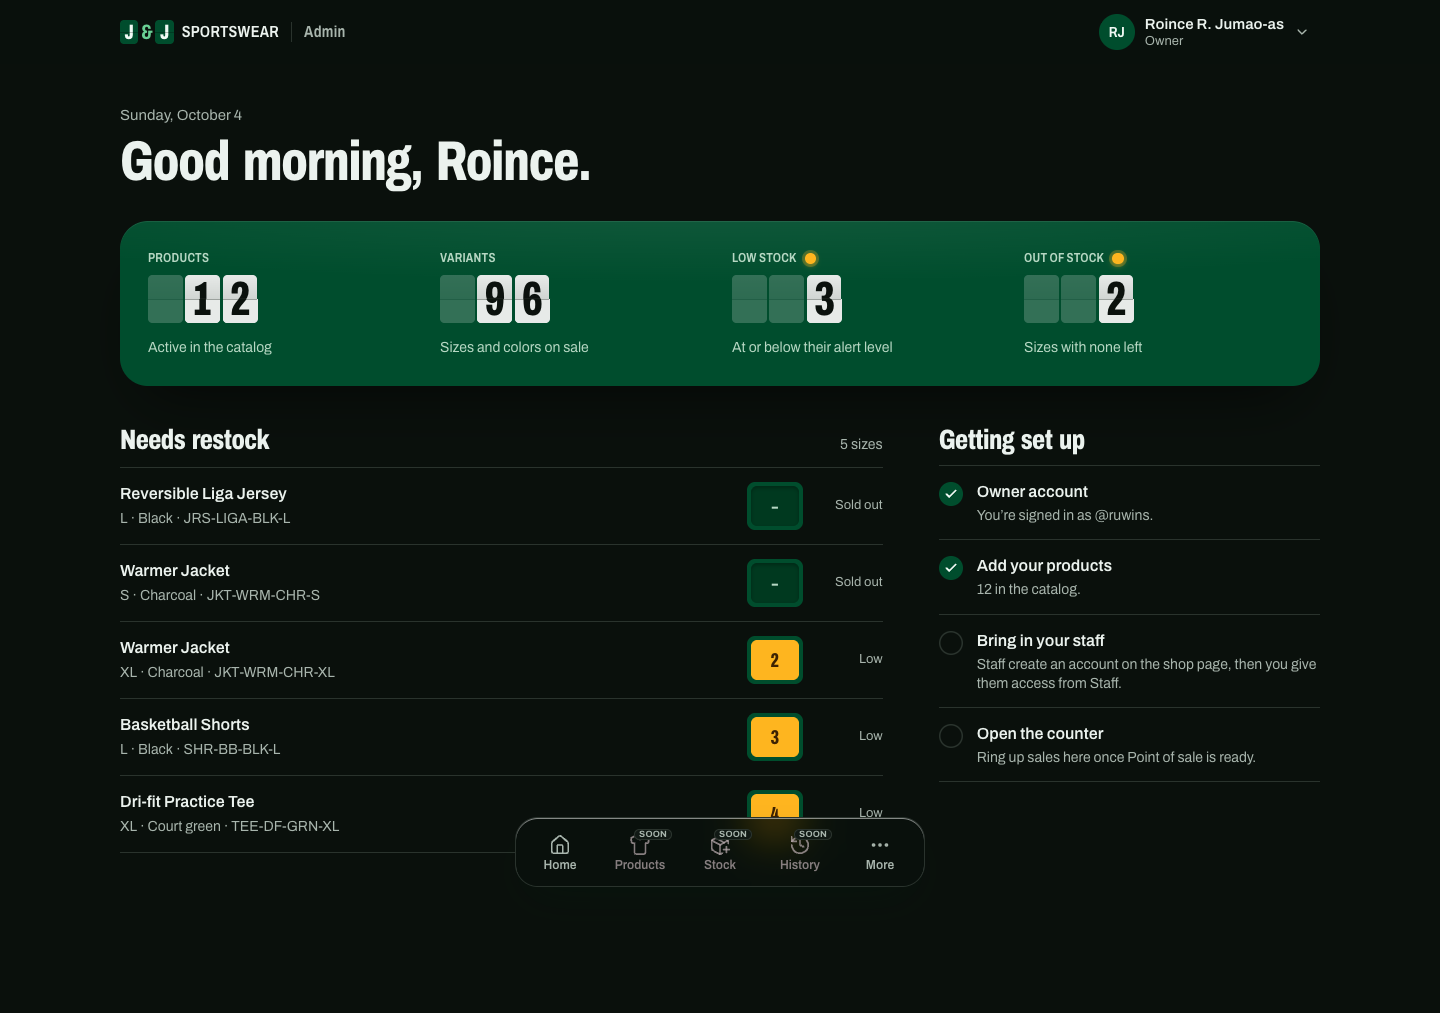
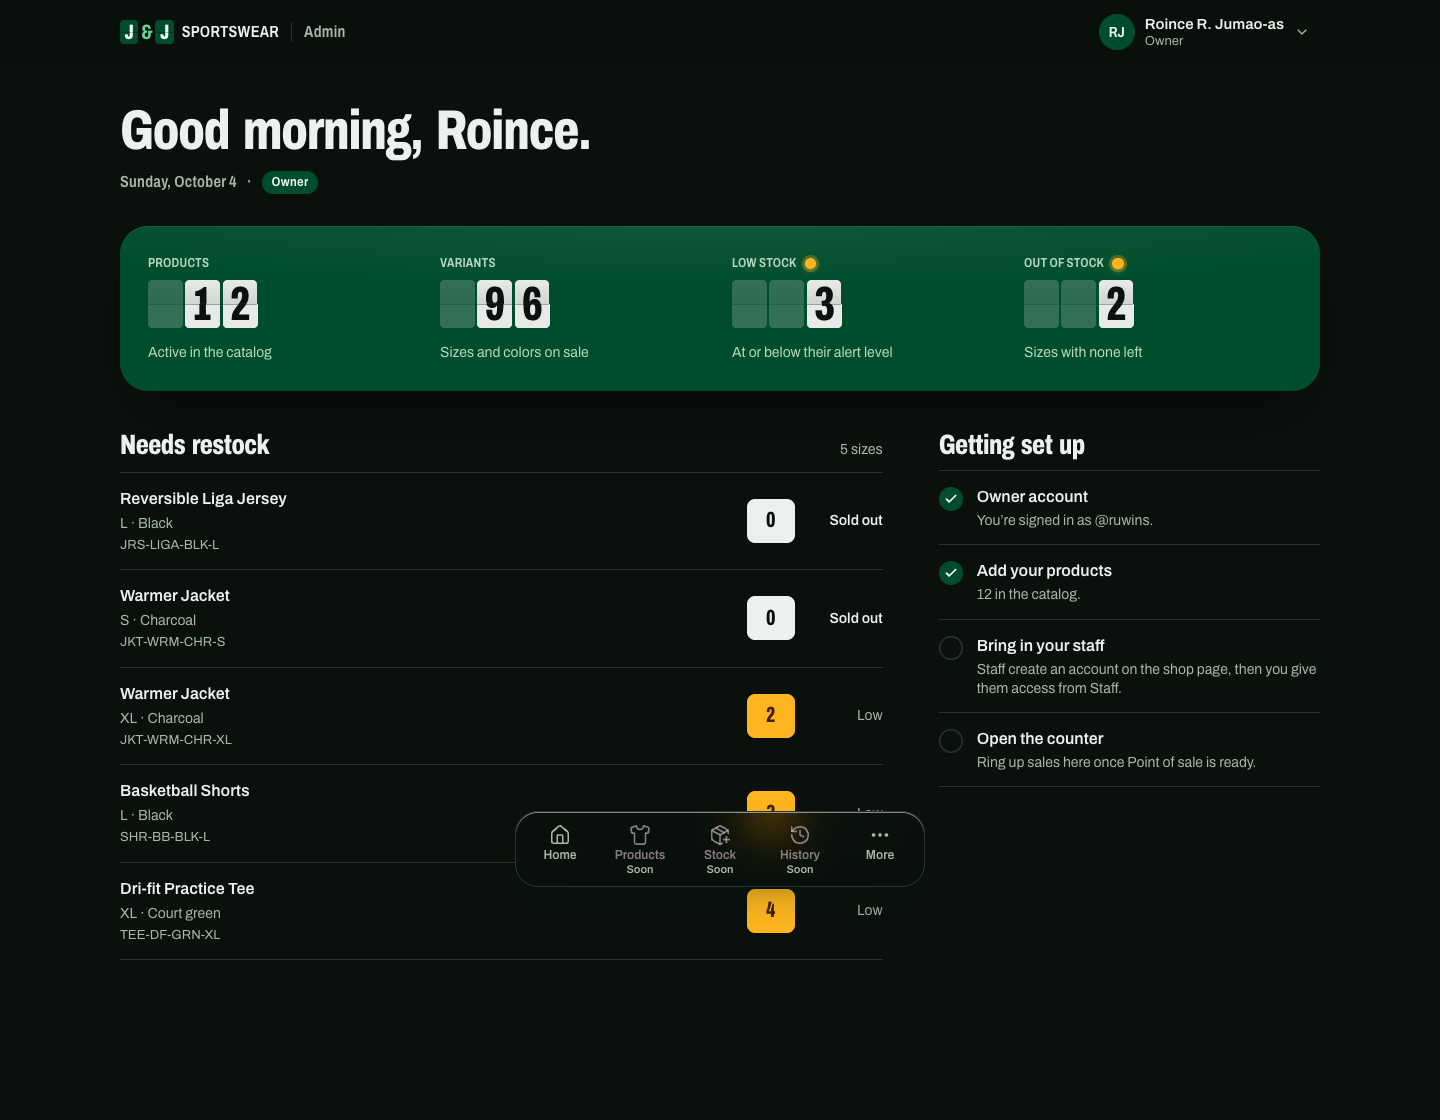
Update admin interface with new LiveRefresh component, enhance styling for stock indicators, and remove temporary preview route. Update CSS for improved layout and responsiveness.

diff --git a/components/admin/admin-home.tsx b/components/admin/admin-home.tsx
@@ -1,5 +1,6 @@
 import { Check, Shirt } from "lucide-react";
 import type { StaffRole } from "@/lib/admin/session";
+import { DOCK_SECTIONS, MORE_SECTIONS, ROLE_LABEL, visibleTo } from "./nav";
 import { ReadoutBoard, type Readout } from "./readout-board";
 
 export type RestockRow = {
@@ -40,10 +41,20 @@ export function AdminHomeView({
   return (
     <div className="mx-auto max-w-[80rem] px-4 pt-8 sm:px-6 sm:pt-10 lg:px-10">
       <header className="mb-7 sm:mb-8">
-        <p className="text-[0.9375rem] text-ink-2">{dateLine}</p>
-        <h1 className="voice-display mt-2 text-[clamp(2.25rem,5vw,3.5rem)]">
+        <h1 className="voice-display text-[clamp(2.25rem,5vw,3.5rem)]">
           {greeting}, {firstName}.
         </h1>
+        <p className="voice-label mt-3 flex flex-wrap items-center gap-x-2.5 gap-y-1 text-[0.9375rem] text-ink-2">
+          <span>{dateLine}</span>
+          <span aria-hidden="true">·</span>
+          <span
+            className={`rounded-full px-2.5 py-0.5 text-[0.8125rem] ${
+              role === "owner" ? "bg-board text-board-ink" : "bg-ground-2 text-ink shadow-[inset_0_0_0_1px_var(--line)]"
+            }`}
+          >
+            {ROLE_LABEL[role]}
+          </span>
+        </p>
       </header>
 
       {loadFailed ? (
@@ -85,20 +96,20 @@ export function AdminHomeView({
                   <li key={v.id} className="flex items-center gap-4 border-b border-line py-3.5">
                     <div className="min-w-0 flex-1">
                       <p className="truncate text-[1rem] font-semibold text-ink">{v.product?.name ?? "Unnamed product"}</p>
-                      <p className="mt-0.5 truncate text-[0.875rem] text-ink-2">
-                        {[v.size, v.color].filter(Boolean).join(" · ")}
-                        {v.sku && <span className="tabular"> · {v.sku}</span>}
-                      </p>
+                      <p className="mt-0.5 text-[0.875rem] text-ink-2">{[v.size, v.color].filter(Boolean).join(" · ")}</p>
+                      {v.sku && <p className="tabular mt-0.5 whitespace-nowrap text-[0.8125rem] text-ink-2">{v.sku}</p>}
                     </div>
-                    <span className="on-board inline-grid shrink-0 rounded-lg bg-board p-1">
-                      <span
-                        data-stock={sold ? "out" : "low"}
-                        className="cell voice-board tabular grid h-10 min-w-12 place-items-center rounded-md px-2 text-[1.25rem]"
-                      >
-                        {sold ? "–" : v.stock_quantity}
-                      </span>
+                    <span
+                      data-stock={sold ? "zero" : "low"}
+                      className="cell voice-board tabular grid h-11 min-w-12 shrink-0 place-items-center rounded-lg px-2 text-[1.375rem]"
+                    >
+                      {v.stock_quantity}
                     </span>
-                    <span className="w-16 shrink-0 text-right text-[0.8125rem] text-ink-2">{sold ? "Sold out" : "Low"}</span>
+                    <span
+                      className={`w-[4.5rem] shrink-0 text-right text-[0.875rem] ${sold ? "font-semibold text-ink" : "text-ink-2"}`}
+                    >
+                      {sold ? "Sold out" : "Low"}
+                    </span>
                   </li>
                 );
               })}
@@ -130,12 +141,16 @@ export function AdminHomeView({
             <h2 id="next-title" className="voice-display border-b border-line pb-3 text-[1.75rem]">
               Coming to the admin
             </h2>
-            <ul className="text-[0.9375rem] text-ink-2">
-              {["Products: add and edit sizes and colors", "Stock: restock and adjust counts", "History: every change, logged", "Point of sale: counter sales"].map((line) => (
-                <li key={line} className="border-b border-line py-3.5">
-                  {line}
-                </li>
-              ))}
+            <ul>
+              {[...DOCK_SECTIONS, ...MORE_SECTIONS]
+                .filter((s) => !s.href)
+                .filter(visibleTo(role))
+                .map((s) => (
+                  <li key={s.label} className="border-b border-line py-3.5">
+                    <p className="text-[1rem] font-semibold text-ink">{s.label}</p>
+                    <p className="mt-0.5 text-[0.875rem] leading-snug text-ink-2">{s.description}</p>
+                  </li>
+                ))}
             </ul>
           </section>
         )}

diff --git a/app/globals.css b/app/globals.css
@@ -372,6 +372,12 @@ html {
   box-shadow: inset 0 0 0 1px var(--line);
 }
 
+.cell[data-stock="zero"] {
+  background: var(--ink);
+  color: var(--ground);
+  box-shadow: none;
+}
+
 .on-board .cell[data-stock="out"] {
   background: var(--board-deep);
   color: var(--board-ink-2);
@@ -592,7 +598,7 @@ input.auth-input:focus-visible,
   justify-content: center;
   gap: 0.1875rem;
   width: 4.75rem;
-  height: 3.5rem;
+  height: 3.875rem;
   border-radius: 1rem;
   color: var(--ink-2);
   font-size: 0.75rem;
@@ -616,19 +622,12 @@ button.admin-dock-item:hover {
   color: color-mix(in oklch, var(--ink-2) 70%, transparent);
 }
 
+/* Unbuilt sections carry "Soon" on a line of its own, clear of the icon. */
 .admin-soon {
-  position: absolute;
-  top: 0.3125rem;
-  right: 0.375rem;
-  padding: 0.0625rem 0.3125rem;
-  border-radius: 999px;
-  background: var(--ground-2);
+  font-size: 0.6875rem;
+  font-weight: 600;
+  line-height: 1;
   color: var(--ink-2);
-  box-shadow: inset 0 0 0 1px var(--line);
-  font-size: 0.5625rem;
-  font-weight: 700;
-  letter-spacing: 0.02em;
-  text-transform: uppercase;
 }
 
 @media (max-width: 639px) {
@@ -680,7 +679,7 @@ button.admin-dock-item:hover {
 /* More rises out of the dock and returns into it. */
 .admin-more {
   left: 50%;
-  bottom: calc(env(safe-area-inset-bottom) + 0.875rem + 4.25rem + 0.625rem);
+  bottom: calc(env(safe-area-inset-bottom) + 0.875rem + 4.625rem + 0.625rem);
   width: min(24rem, calc(100vw - 1.5rem));
   transform: translate(-50%, 10px) scale(0.97);
   transform-origin: 50% 100%;
@@ -699,7 +698,7 @@ button.admin-dock-item:hover {
 
 @media (max-width: 639px) {
   .admin-more {
-    bottom: calc(env(safe-area-inset-bottom) + 4.25rem + 0.5rem);
+    bottom: calc(env(safe-area-inset-bottom) + 4.625rem + 0.5rem);
   }
 }
 

diff --git a/components/admin/admin-dock.tsx b/components/admin/admin-dock.tsx
@@ -24,14 +24,24 @@ function DockItem({ section, active }: { section: AdminSection; active: boolean 
         <span className="admin-soon" aria-hidden="true">
           Soon
         </span>
-        <span className="sr-only">, coming soon</span>
+        <span className="sr-only">(coming soon)</span>
       </span>
     );
   }
   return (
     <Link href={section.href} className="admin-dock-item press" aria-current={active ? "page" : undefined}>
       {body}
+      <ReservedRow />
     </Link>
+  );
+}
+
+/** Keeps every dock icon on one line, whether or not the item carries "Soon". */
+function ReservedRow() {
+  return (
+    <span aria-hidden="true" className="admin-soon invisible">
+      Soon
+    </span>
   );
 }
 
@@ -60,6 +70,7 @@ export function AdminDock({ role }: { role: StaffRole }) {
           >
             <Ellipsis aria-hidden="true" className="size-[1.375rem]" strokeWidth={1.9} />
             <span>More</span>
+            <ReservedRow />
           </button>
         </li>
       </ul>

diff --git a/components/admin/live-refresh.tsx b/components/admin/live-refresh.tsx
@@ -1,0 +1,25 @@
+"use client";
+
+import { useEffect } from "react";
+import { useRouter } from "next/navigation";
+
+/**
+ * Re-fetches the page's server data when the tab comes back into view and every
+ * minute while it's visible, so flip-card counts flip when the numbers move.
+ * Swap for a Realtime subscription once product tables are in the publication.
+ */
+export function LiveRefresh({ intervalMs = 60_000 }: { intervalMs?: number }) {
+  const router = useRouter();
+  useEffect(() => {
+    const refresh = () => {
+      if (document.visibilityState === "visible") router.refresh();
+    };
+    const timer = window.setInterval(refresh, intervalMs);
+    document.addEventListener("visibilitychange", refresh);
+    return () => {
+      window.clearInterval(timer);
+      document.removeEventListener("visibilitychange", refresh);
+    };
+  }, [router, intervalMs]);
+  return null;
+}

diff --git a/app/admin/page.tsx b/app/admin/page.tsx
@@ -1,4 +1,5 @@
 import { AdminHomeView, type RestockRow } from "@/components/admin/admin-home";
+import { LiveRefresh } from "@/components/admin/live-refresh";
 import type { Readout } from "@/components/admin/readout-board";
 import { firstName, requireStaff } from "@/lib/admin/session";
 
@@ -51,7 +52,9 @@ export default async function AdminHome() {
   }).format(now);
 
   return (
-    <AdminHomeView
+    <>
+      <LiveRefresh />
+      <AdminHomeView
       firstName={firstName(profile)}
       username={profile.username}
       role={profile.role}
@@ -62,6 +65,7 @@ export default async function AdminHome() {
       productCount={productCount}
       needsRestock={needsRestock}
       attentionCount={out.length + low.length}
-    />
+      />
+    </>
   );
 }

diff --git a/docs/admin-plan.md b/docs/admin-plan.md
@@ -61,6 +61,7 @@ One phase per session. Each phase ends finished, reviewed, and demoable before t
 - An inventory log filterable by type, product, staff member, and date, plus each variant's own history.
 - A low-stock and out-of-stock list.
 - A live notifications bell.
+- Add `products` and `product_variants` to the `supabase_realtime` publication (a new migration), so the admin's counts update the moment stock moves. Phase 1 refreshes them on tab focus and every minute instead.
 - **Done when:** staff can answer "who changed this, when, and why" and see what needs restocking.
 
 ### Phase 6: Inventory dashboard + report
